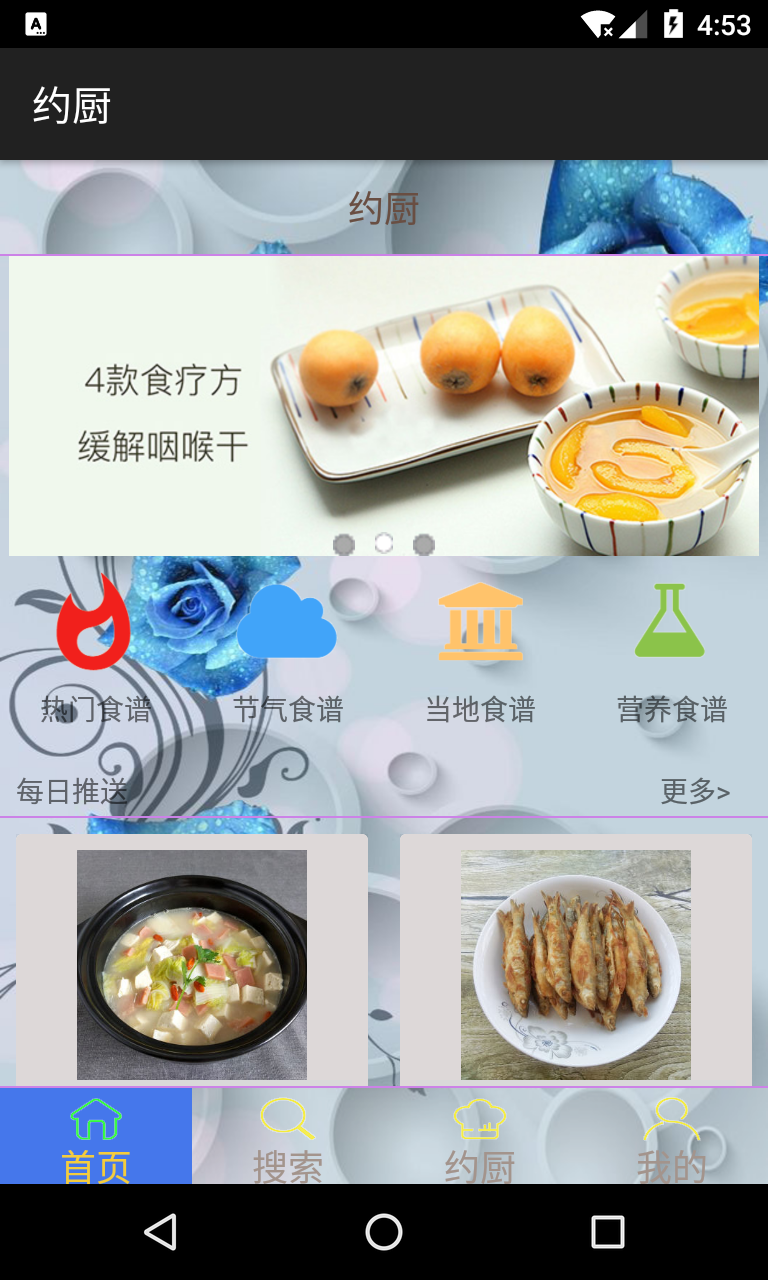
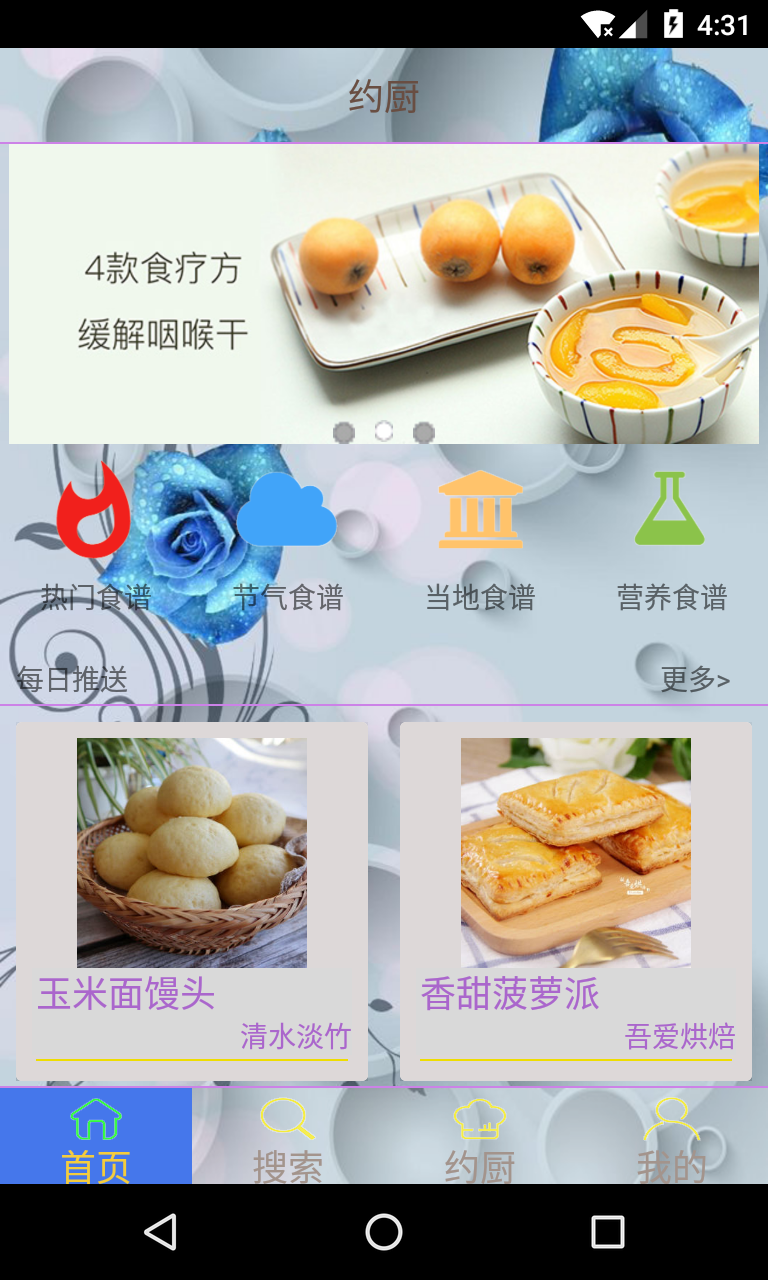
title标题更改

diff --git a/app/src/main/java/com/example/yuechu/Page_Index/ItemView_Activity.java b/app/src/main/java/com/example/yuechu/Page_Index/ItemView_Activity.java
@@ -12,6 +12,7 @@ import android.support.v7.widget.RecyclerView;
 import android.view.View;
 import android.view.Window;
 import android.widget.ArrayAdapter;
+import android.widget.TextView;
 import android.widget.Toast;
 
 import com.example.yuechu.R;
@@ -77,11 +78,12 @@ private void init(){
         super.onCreate(savedInstanceState);
         setContentView(R.layout.item_view);
 
+        TextView title=(TextView)findViewById(R.id.txt_topbar);
         recyclerView=findViewById(R.id.recyleview_everyday);
         gridLayoutManager=new GridLayoutManager(this,2);
         refreshLayout=findViewById(R.id.refreshLayout);
 
-        setTitle(getIntent().getExtras().getString("title"));
+        title.setText(getIntent().getExtras().getString("title"));
         Url=getIntent().getExtras().getString("url");
 
         refreshLayout.setOnRefreshListener(new OnRefreshListener() {

diff --git a/app/src/main/java/com/example/yuechu/Page_Index/ItemDescriptionActivity.java b/app/src/main/java/com/example/yuechu/Page_Index/ItemDescriptionActivity.java
@@ -32,6 +32,7 @@ public class ItemDescriptionActivity extends Activity {
         requestWindowFeature(Window.FEATURE_NO_TITLE);
         setContentView(R.layout.activity_item_description);
 
+        TextView title=(TextView)findViewById(R.id.txt_topbar);
         imageView_item=(ImageView)findViewById(R.id.imageView_item);
         tv_des_item=(TextView)findViewById(R.id.tv_des_item);
         tv_steps=(TextView)findViewById(R.id.tv_steps);
@@ -41,7 +42,7 @@ public class ItemDescriptionActivity extends Activity {
         recipe= (Recipe) bundle.getSerializable("recipe");
         String Url=recipe.getUrl();
 
-        setTitle(recipe.getName());
+        title.setText(recipe.getName());
         Glide.with(this).load(recipe.getPortrait()).into(imageView_item);
         tv_des_item.setText("__by"+recipe.getDescription());
 
